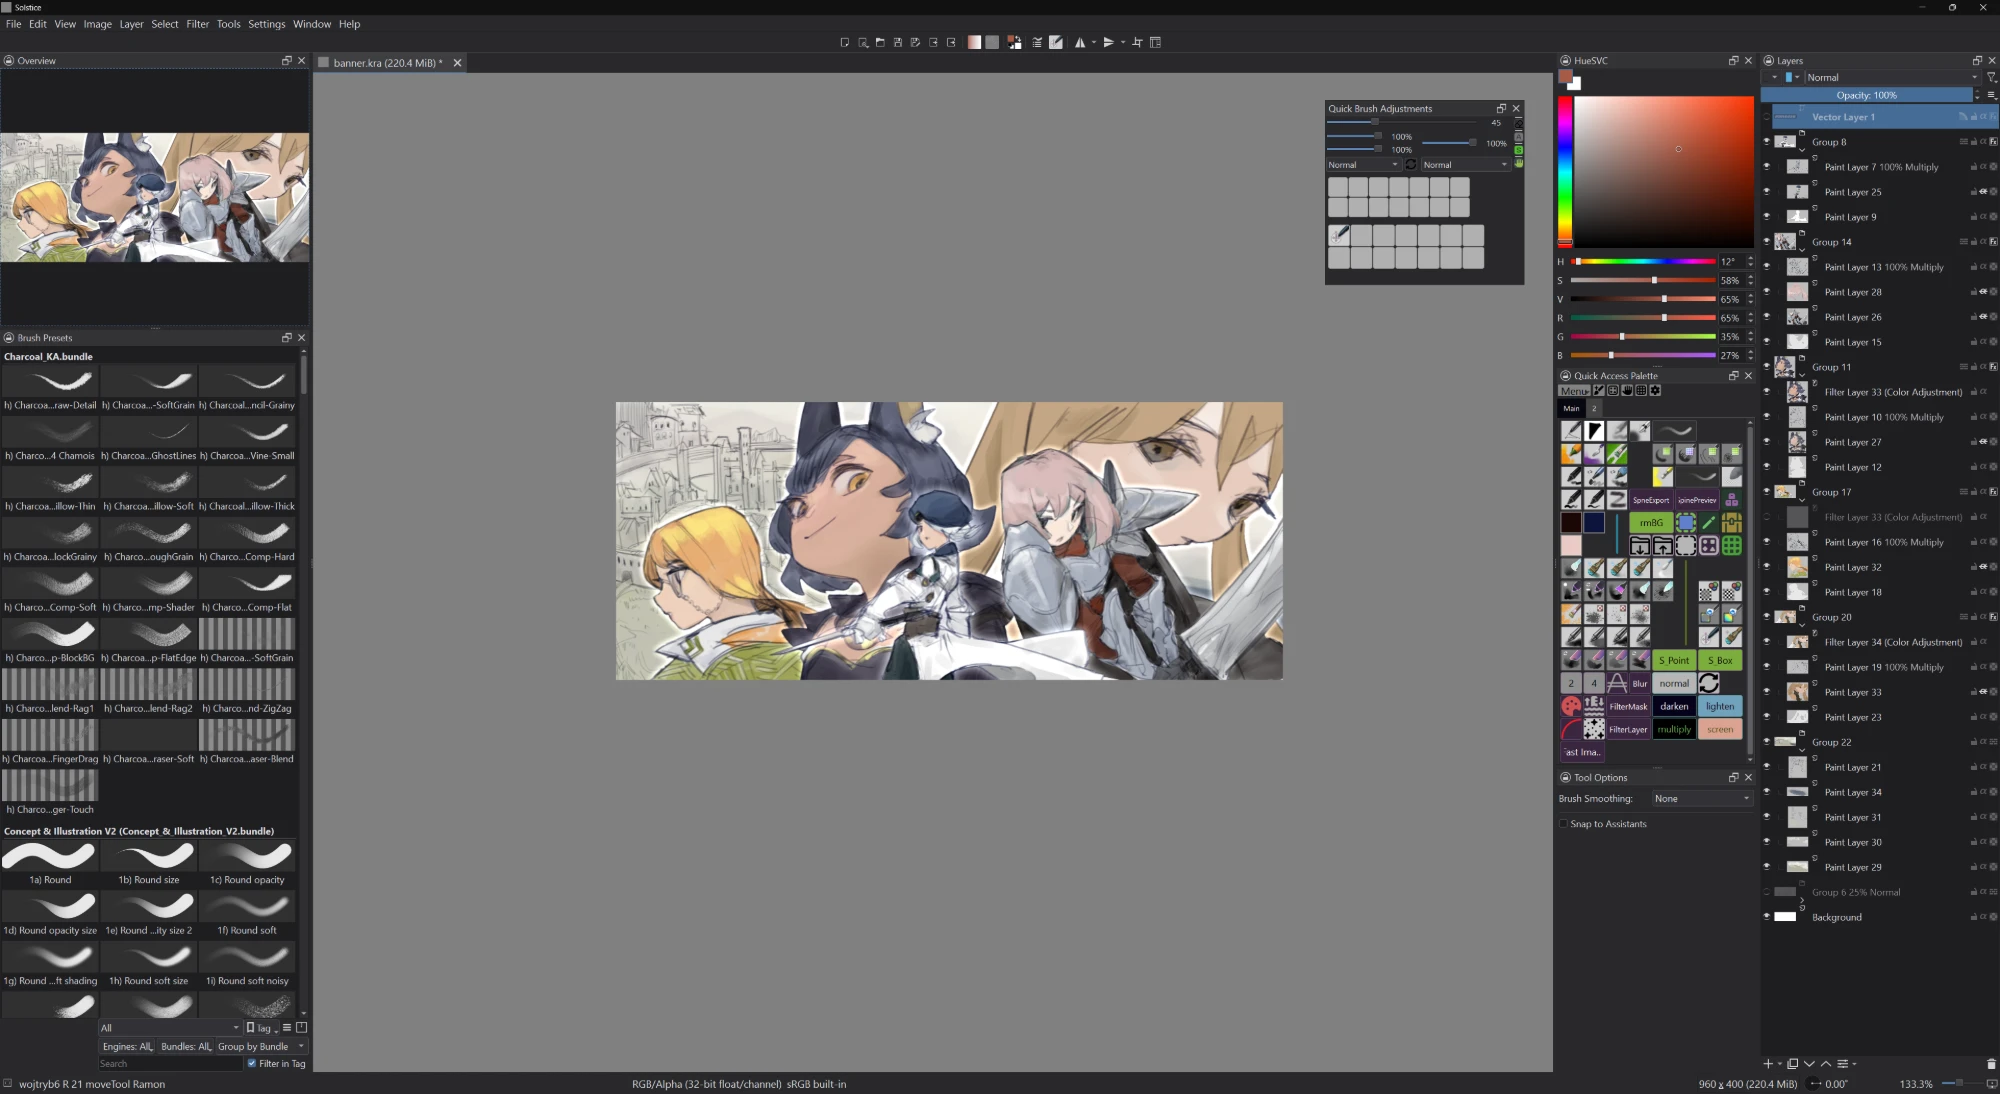
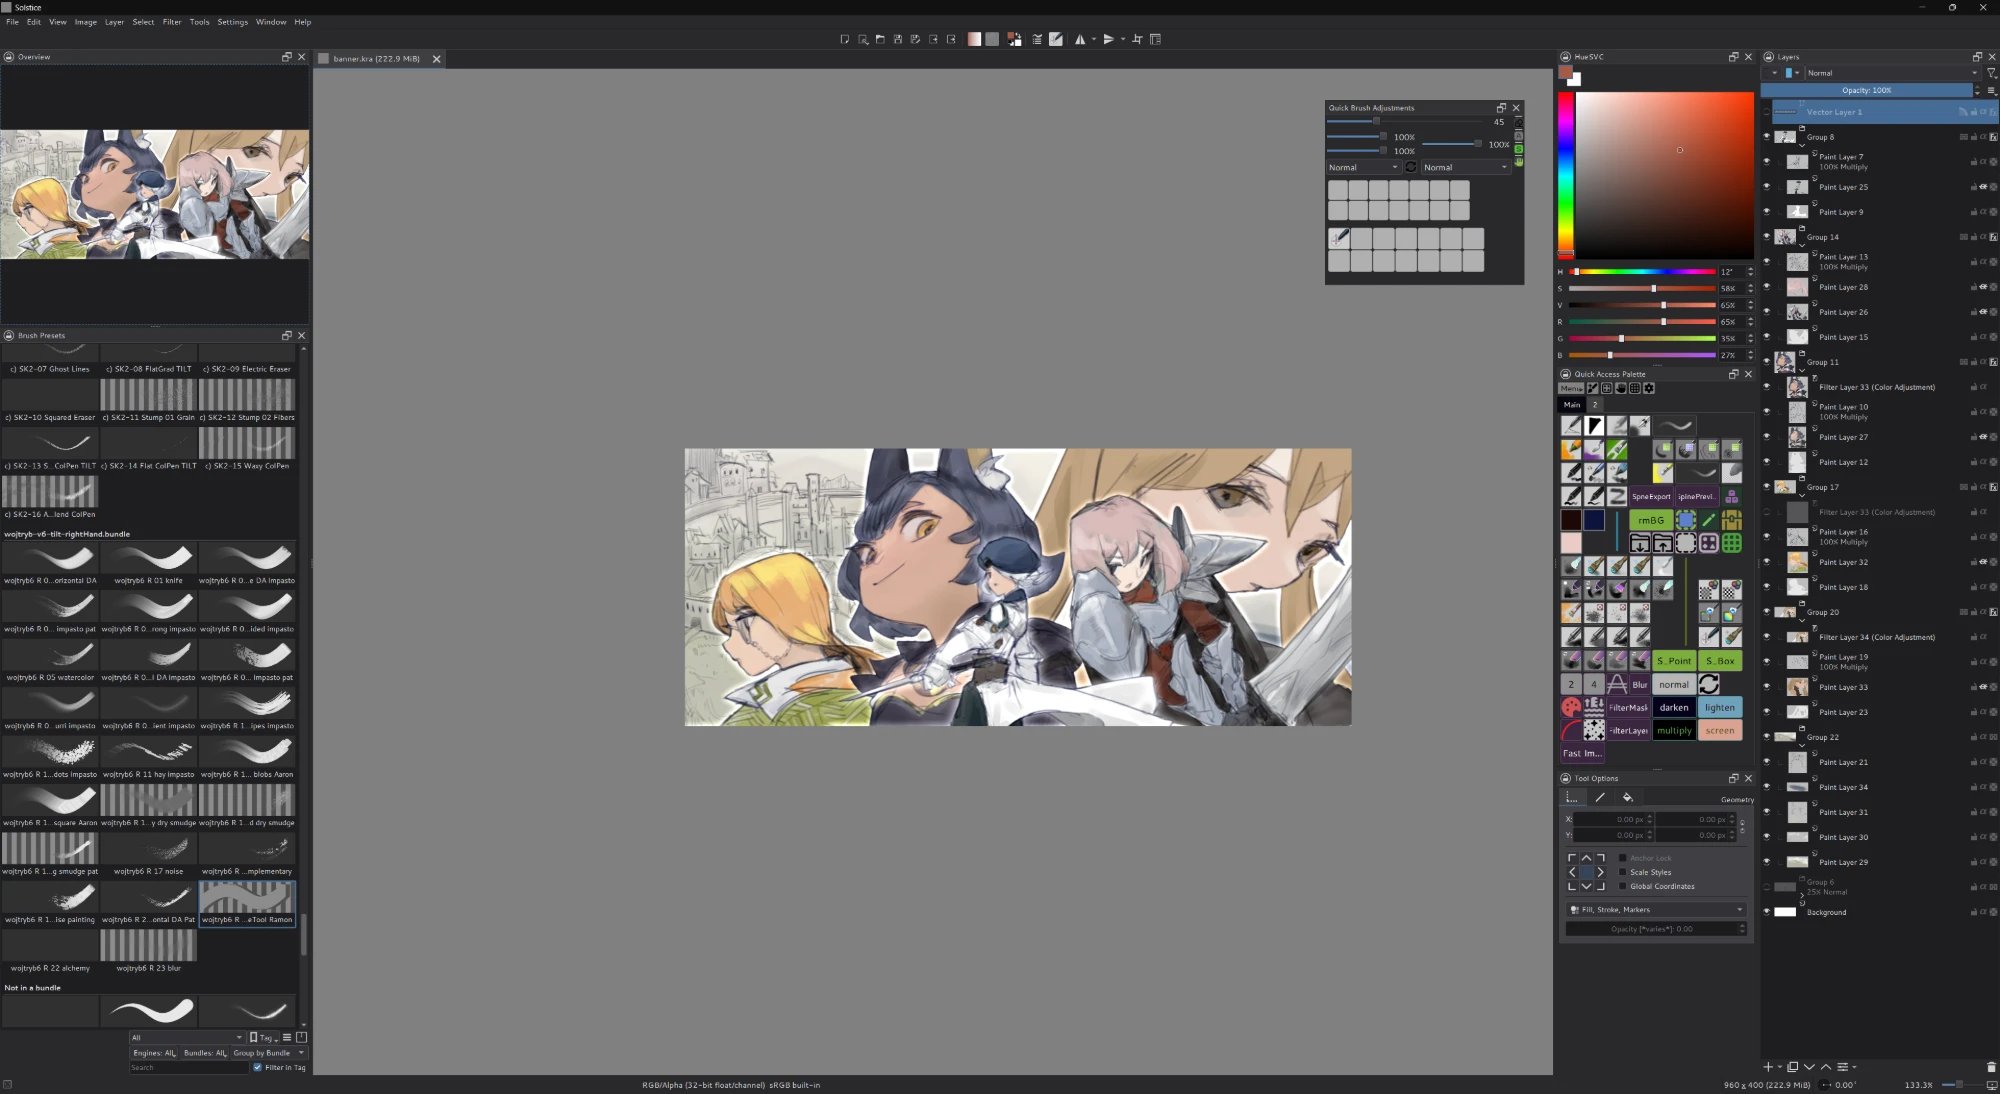
README: new screenshots, smaller Brush Presets image
Replace the main window and Brush Presets screenshots and show the
Brush Presets image at 480 px width.

diff --git a/README.md b/README.md
@@ -38,7 +38,7 @@ Krita edition, and development no longer tracks upstream Krita.
   filters alongside tags and search, and optional grouping by engine or
   bundle.
 
-![Brush Presets grouped by bundle, with the Engines filter open](docs/images/brush-presets.png)
+<img src="docs/images/brush-presets.png" alt="Brush Presets grouped by bundle, with the Engines filter open" width="480">
 
 The Brush Presets docker grouped by bundle, with the Engines filter open. See
 the [Brush Presets guide](docs/brush-stroke-preview.md) for preview behavior,
